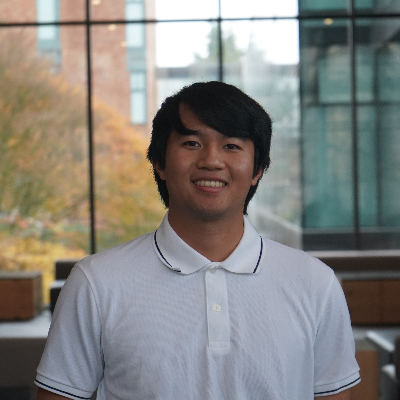
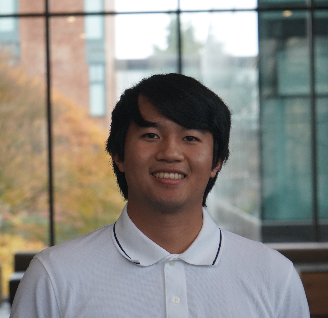
Contributor Page Update
-Added Camille

diff --git a/Contributors/index.html b/Contributors/index.html
@@ -36,6 +36,23 @@
                 </div>
                 <div class="contributor-item">
                     <div class="contributor-item-info">
+                        <div class="contributorHeadshot"><img src="camille_lerasan.jpeg"/></div>
+                        <div class="contributorText">
+                            <h2 class="contributorName">Camille Lerasan</h2>
+                            <h4 class="contributorPosition">Intern, Summer 2022</h4>
+                            <div class="contributorLinks">
+                                <a href="https://www.linkedin.com/in/camillelerasan"><img src="linkedin.png"/></a>
+                            </div>
+                        </div>
+                    </div>
+                    <div class="contributor-item-bio">
+                        <p>Camille works on the structural engineering team creating calculation software and updating our lectures series.</p>
+                        <p>Currently obtaining her Bachelor's in Civil Engineering at Purdue University, Camille plans to obtain a Master's in Architecture after she completes her Bachelor's in Civil Engineering at Purdue University. Her enthusiasm for California Seismic comes from her desire to help other engineers and provide easily accessible knowledge.</p>
+                        <p>In her free time, Camille can be found skateboarding, thrifting, and reading.</p>
+                    </div>
+                </div>
+                <div class="contributor-item">
+                    <div class="contributor-item-info">
                         <div class="contributorHeadshot"><img src="jerry_wu.jpg"/></div>
                         <div class="contributorText">
                             <h2 class="contributorName">Jerry Wu</h2>
